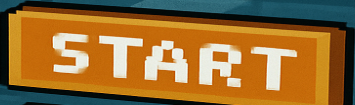
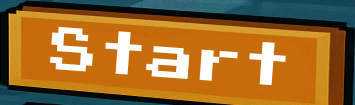
Inclusao de logica para vitoria, tela de boas vindas, tela de vitoria

Changed region(s): [[0.2789, 0.2857, 0.8366, 0.8857], [0.1239, 0.2571, 0.2789, 0.7143]]

diff --git a/main.py b/main.py
@@ -19,8 +19,8 @@ branco = (255,255,255)
 preto = (0, 0 ,0 )
 garra = pygame.image.load("recursos/garraLongasemfundo.png")
 fundoStart = pygame.image.load("recursos/startAndQuit.png")
-fundoIniciar = pygame.image.load("recursos/iniciarESair.png")
 fundoJogo = pygame.image.load("recursos/telaJogo.png")
+fundoPerdeu = pygame.image.load("recursos/telaPerdeu.png")
 maquinaCima = pygame.image.load("recursos/telaJogoMaquinaCima.png")
 joyStick = pygame.image.load("recursos/telaJoySticksemfundo.png")
 fundoPause = pygame.image.load("recursos/paused.png")
@@ -29,48 +29,53 @@ somCaptura = pygame.mixer.Sound("recursos/pickup_2.wav")
 somGameOver = pygame.mixer.Sound("recursos/game_over.wav")
 somClique = pygame.mixer.Sound("recursos/click.wav")
 somPegar = pygame.mixer.Sound("recursos/pickup_2.wav")
-fonteMenu = pygame.font.Font("recursos/PressStart2P.ttf",18)
+fonteMenu = pygame.font.Font("recursos/PressStart2P.ttf",14)
 fontePontos = pygame.font.Font("recursos/PressStart2P.ttf",24)
 fonteMorte = pygame.font.Font("recursos/PressStart2P.ttf",18)
+fonteNome = pygame.font.Font("recursos/PressStart2P.ttf",42)
 pygame.mixer.music.load("recursos/Boppy1minloop.mp3")
-
+nomeDigitado = False
 
 
 def jogar():
     largura_janela = 300
     altura_janela = 50
-    def obter_nome():
-        global nome
-        nome = entry_nome.get()  # Obtém o texto digitado
-        if not nome:  # Se o campo estiver vazio
-            messagebox.showwarning("Aviso", "Por favor, digite seu nome!")  # Exibe uma mensagem de aviso
-        else:
-            #print(f'Nome digitado: {nome}')  # Exibe o nome no console
-            root.destroy()  # Fecha a janela após a entrada válida
+    if not nomeDigitado:
+        def obter_nome():
+            global nome, nomeDigitado
+            nome = entry_nome.get()  # Obtém o texto digitado
+            if not nome:  # Se o campo estiver vazio
+                messagebox.showwarning("Aviso", "Por favor, digite seu nome!")  # Exibe uma mensagem de aviso
+            else:
+                nomeDigitado = True
+                #print(f'Nome digitado: {nome}')  # Exibe o nome no console
+                root.destroy()  # Fecha a janela após a entrada válida
+                telaBoasVindas()
 
-    # Criação da janela principal
-    root = tk.Tk()
-    # Obter as dimensões da tela
-    largura_tela = root.winfo_screenwidth()
-    altura_tela = root.winfo_screenheight()
-    pos_x = (largura_tela - largura_janela) // 2
-    pos_y = (altura_tela - altura_janela) // 2
-    root.geometry(f"{largura_janela}x{altura_janela}+{pos_x}+{pos_y}")
-    root.title("Informe seu nickname")
-    root.protocol("WM_DELETE_WINDOW", obter_nome)
 
-    # Entry (campo de texto)
-    entry_nome = tk.Entry(root)
-    entry_nome.pack()
+        # Criação da janela principal
+        root = tk.Tk()
+        # Obter as dimensões da tela
+        largura_tela = root.winfo_screenwidth()
+        altura_tela = root.winfo_screenheight()
+        pos_x = (largura_tela - largura_janela) // 2
+        pos_y = (altura_tela - altura_janela) // 2
+        root.geometry(f"{largura_janela}x{altura_janela}+{pos_x}+{pos_y}")
+        root.title("Informe seu nickname")
+        root.protocol("WM_DELETE_WINDOW", obter_nome)
 
-    # Botão para pegar o nome
-    botao = tk.Button(root, text="Enviar", command=obter_nome)
-    botao.pack()
+        # Entry (campo de texto)
+        entry_nome = tk.Entry(root)
+        entry_nome.pack()
 
-    # Inicia o loop da interface gráfica
-    root.mainloop()
+        # Botão para pegar o nome
+        botao = tk.Button(root, text="Enviar", command=obter_nome)
+        botao.pack()
+
+        # Inicia o loop da interface gráfica
+        root.mainloop()
     
-    ptbr = True
+    cadastroRealizado = True
     posicaoXGarra = 500
     posicaoYGarra = -200
     movimentoXGarra  = 0
@@ -105,7 +110,7 @@ def jogar():
     ursos = {**ursosVogais, **ursosConsoantes}
     ursosPegos = []
     ursosVogaisPegos = []
-
+    ursosConsoantesPegos = []
 
     while True:
         eventos = pygame.event.get()
@@ -178,7 +183,7 @@ def jogar():
             texto = fontePontos.render("Pontos: "+str(pontos), True, branco)
         else:
             texto = fontePontos.render("Points: "+str(pontos), True, branco)
-        tela.blit(texto, (500,65))
+        tela.blit(texto, (470,65))
         if ptbr:
             texto = fonteMenu.render("Pressione Espaço para Pausar o Jogo", True, branco)
         else:
@@ -198,7 +203,6 @@ def jogar():
                 
                 elif eventoAgarrar.type == pygame.KEYDOWN and eventoAgarrar.key == pygame.K_RETURN: 
                     if garraRect.colliderect(ursoRect):
-                        escreverDados(nome, pontos)
                         pygame.mixer.Sound.play(somPegar)
                         if not pygame.mixer.music.get_busy():
                             pygame.mixer.music.play(-1)
@@ -210,10 +214,9 @@ def jogar():
             ursos[ursoSelecionado][2] = posicaoYGarra + alturaGarra - 10
         
             if posicaoXBuraco + 45 < ursos[ursoSelecionado][1] + 45 < posicaoXBuraco + larguraBuraco:
-                if ursos[ursoSelecionado][2] + 25 == posicaoYBuraco:
+                if ursos[ursoSelecionado][2] + 60 == posicaoYBuraco:
                     ursosPegos.append(ursoSelecionado)
-                    ursos[ursoSelecionado][1] = 0
-                    ursos[ursoSelecionado][2] = 0
+                    ursoSelecionado = None
                     pygame.mixer.Sound.play(somPegar)
             
         for ursoPego in ursosPegos:
@@ -221,16 +224,115 @@ def jogar():
                 if ursoPego not in ursosVogaisPegos:
                     ursosVogaisPegos.append(ursoPego)
                     pontos = len(ursosVogaisPegos)
-            elif len(ursosPegos) > 2:
-                perdeu()
+            elif ursoPego in ursosConsoantes.keys():
+                if ursoPego not in ursosConsoantesPegos:
+                    ursosConsoantesPegos.append(ursoPego)
+            
+        if len(ursosConsoantesPegos) == 2:
+            escreverDados(nome, pontos)
+            perdeu()
 
+        if len(ursosVogaisPegos) == 5:
+            print("vitoria")
+            telaVitoria()
+
+        pygame.display.update()
+        relogio.tick(60)
+
+
+def telaVitoria():
+    fundoVitoria = pygame.image.load("recursos/telaVitoria.png")
+    textoVitoria = fonteNome.render(f"{nome}", True, branco)
+
+    larguraButtonStart = 350
+    alturaButtonStart  = 100
+    larguraButtonQuit = 350
+    alturaButtonQuit  = 100
+
+    while True:
+        tela.fill(branco)
+        tela.blit(fundoVitoria, (0, 0))  # Exibe a imagem de fundo de boas-vindas
+        tela.blit(textoVitoria, (500,180))
+
+        for evento in pygame.event.get():
+            if evento.type == pygame.QUIT:
+                quit()
+            elif evento.type == pygame.MOUSEBUTTONDOWN:
+                if startButton.collidepoint(evento.pos):
+                    larguraButtonStart = 350
+                    alturaButtonStart  = 100
+                if quitButton.collidepoint(evento.pos):
+                    larguraButtonQuit = 350
+                    alturaButtonQuit  = 100
+ 
+            elif evento.type == pygame.MOUSEBUTTONUP:
+                # Verifica se o clique foi dentro do retângulo
+                if startButton.collidepoint(evento.pos):
+                    pygame.mixer.music.play(-1)
+                    larguraButtonStart = 350
+                    alturaButtonStart  = 100
+                    jogar()
+                if quitButton.collidepoint(evento.pos):
+                    pygame.mixer.music.play(-1)
+                    larguraButtonQuit = 350
+                    alturaButtonQuit  = 100
+                    quit()
+
+
+        startButton = pygame.draw.rect(tela, branco, (325,400, larguraButtonStart, alturaButtonStart), border_radius=15)
+        startTexto = fonteMenu.render("Jogar novamente", True, preto)
+        tela.blit(startTexto, (400,440))
+        
+        quitButton = pygame.draw.rect(tela, branco, (325,510, larguraButtonQuit, alturaButtonQuit), border_radius=15)
+        quitTexto = fonteMenu.render("Sair do Game", True, preto)
+        tela.blit(quitTexto, (410,540))
+
+        pygame.display.update()
+        relogio.tick(60)
+
+
+def telaBoasVindas():
+    # Carregar fundo da tela de boas-vindas
+    fundoBoasVindas = pygame.image.load("recursos/telaBoasVindas.png")
+    textoBemVindo = fonteNome.render(f"{nome}", True, branco)
+
+    while True:
+        tela.fill(branco)
+        tela.blit(fundoBoasVindas, (0, 0))  # Exibe a imagem de fundo de boas-vindas
+        tela.blit(textoBemVindo, (450,50))
+
+        for evento in pygame.event.get():
+            if evento.type == pygame.QUIT:
+                quit()
+            elif evento.type == pygame.MOUSEBUTTONDOWN:
+                jogar()
 
         pygame.display.update()
         relogio.tick(60)
 
 
 def start():
+    global ptbr
     ptbr = True
+    def botoes(caminhoButtonPlay, caminhoButtonQuit):
+            global startRect, quitRect, botaoPtBrRect, botaoEnUsRect
+            startButton = pygame.image.load(caminhoButtonPlay)
+            startRect = startButton.get_rect(topleft=(405, 210))
+            tela.blit(startButton, (405,210))
+
+            quitButton = pygame.image.load(caminhoButtonQuit)
+            quitRect = quitButton.get_rect(topleft=(425, 330))
+            tela.blit(quitButton, (425,330))
+
+            botaoPtBr = pygame.image.load("recursos/botaoPTBR.png")
+            botaoPtBrRect = botaoPtBr.get_rect(topleft=(800,15))
+            tela.blit(botaoPtBr, (800,15))
+
+            botaoEnUs = pygame.image.load("recursos/botaoENUS.png")
+            botaoEnUsRect = botaoEnUs.get_rect(topleft=(800,115))
+            tela.blit(botaoEnUs,(800,115))    
+
+
     larguraButtonStart = 355
     alturaButtonStart  = 105
 
@@ -285,51 +387,20 @@ def start():
                     alturaButtonEnUs = 81
                     ptbr = False
                     
-            
-            
         tela.fill(branco)
+        tela.blit(fundoStart,(0,0))
 
         if ptbr:
-            tela.blit(fundoIniciar,(0,0))
-            startButton = pygame.image.load("recursos/botaoIniciar.png")
-            startRect = startButton.get_rect(topleft=(400, 215))
-            tela.blit(startButton, (400,215))
-
-            quitButton = pygame.image.load("recursos/botaoSair.png")
-            quitRect = quitButton.get_rect(topleft=(400, 338))
-            tela.blit(quitButton, (400,338))
-
-            botaoPtBr = pygame.image.load("recursos/botaoPTBR.png")
-            botaoPtBrRect = botaoPtBr.get_rect(topleft=(700,15))
-            tela.blit(botaoPtBr, (800,15))
-
-            botaoEnUs = pygame.image.load("recursos/botaoENUS.png")
-            botaoEnUsRect = botaoEnUs.get_rect(topleft=(700,115))
-            tela.blit(botaoEnUs,(800,115))            
-
-        else:    
-            tela.blit(fundoStart,(0,0))
-            startButton = pygame.image.load("recursos/botaoStartv2.png")
-            startRect = startButton.get_rect(topleft=(405, 210))
-            tela.blit(startButton, (405,210))
-        
-            quitButton = pygame.image.load("recursos/botaoQuitv2.png")
-            quitRect = quitButton.get_rect(topleft=(425, 330))
-            tela.blit(quitButton, (425,330))
-
-            botaoPtBr = pygame.image.load("recursos/botaoPTBR.png")
-            botaoPtBrRect = botaoPtBr.get_rect(topleft=(700,15))
-            tela.blit(botaoPtBr, (800,15))
-
-            botaoEnUs = pygame.image.load("recursos/botaoENUS.png")
-            botaoEnUsRect = botaoEnUs.get_rect(topleft=(700,115))
-            tela.blit(botaoEnUs,(800,115))  
+            botoes("recursos/botaoInicie.png", "recursos/botaoSair.png")
+        else:
+            botoes("recursos/botaoStartv2.png","recursos/botaoQuitv2.png")    
         
         pygame.display.update()
         relogio.tick(60)
 
 
 def perdeu():
+    print("perdeu")
     pygame.mixer.music.stop()
     pygame.mixer.Sound.play(somGameOver)
     
@@ -342,7 +413,7 @@ def perdeu():
     for nome, dados in reversed(ultimosLogs):
         pontos, data, hora = dados
         textoLog = f"{nome} - {pontos} pts - {data} às {hora}"
-        textoLogRender = fonteMorte.render(textoLog, True, preto)
+        textoLogRender = fonteMorte.render(textoLog, True, branco)
         logsRenderizados.append(textoLogRender)
 
 
@@ -361,7 +432,7 @@ def perdeu():
                     larguraButtonStart = 350
                     alturaButtonStart  = 100
                 if quitButton.collidepoint(evento.pos):
-                    larguraButtonQuit = 450
+                    larguraButtonQuit = 350
                     alturaButtonQuit  = 100
 
                 
@@ -379,25 +450,23 @@ def perdeu():
                     quit()
                     
         
-            
-            
-        tela.fill(branco)
-        titulo = fontePontos.render("Últimos Registros", True, preto)
-        tela.blit(titulo,(500,150))
+        tela.blit(fundoPerdeu, (0,0))
+        titulo = fontePontos.render("Últimos Registros", True, branco)
+        tela.blit(titulo,(300,150))
 
-        yOffSet = 100
+        yOffSet = 200
         for linha in logsRenderizados:
-            tela.blit(linha, (150, yOffSet))
+            tela.blit(linha, (200, yOffSet))
             yOffSet += 40
 
         
-        startButton = pygame.draw.rect(tela, branco, (10,10, larguraButtonStart, alturaButtonStart), border_radius=15)
-        startTexto = fonteMenu.render("Iniciar Game", True, preto)
-        tela.blit(startTexto, (25,12))
+        startButton = pygame.draw.rect(tela, branco, (325,400, larguraButtonStart, alturaButtonStart), border_radius=15)
+        startTexto = fonteMenu.render("Jogar novamente", True, preto)
+        tela.blit(startTexto, (400,440))
         
-        quitButton = pygame.draw.rect(tela, branco, (10,60, larguraButtonQuit, alturaButtonQuit), border_radius=15)
+        quitButton = pygame.draw.rect(tela, branco, (325,510, larguraButtonQuit, alturaButtonQuit), border_radius=15)
         quitTexto = fonteMenu.render("Sair do Game", True, preto)
-        tela.blit(quitTexto, (25,62))
+        tela.blit(quitTexto, (410,540))
 
 
         pygame.display.update()

diff --git a/recursos/funcoes.py b/recursos/funcoes.py
@@ -12,14 +12,14 @@ def aguarde(segundos):
 def inicializarBancoDeDados():
     # r - read, w - write, a - append
     try:
-        banco = open("base.atitus","r")
+        banco = open("log.dat","r")
     except:
         print("Banco de Dados Inexistente. Criando...")
-        banco = open("base.atitus","w")
+        banco = open("log.dat","w")
     
 def escreverDados(nome, pontos):
     # INI - inserindo no arquivo
-    banco = open("base.atitus","r")
+    banco = open("log.dat","r")
     dados = banco.read()
     banco.close()
     if dados != "":
@@ -32,7 +32,7 @@ def escreverDados(nome, pontos):
     hora_br = agora.time().strftime("%H:%M:%S")
     dadosDict[nome] = (pontos, data_br, hora_br)
     
-    banco = open("base.atitus","w")
+    banco = open("log.dat","w")
     banco.write(json.dumps(dadosDict))
     banco.close()
     
